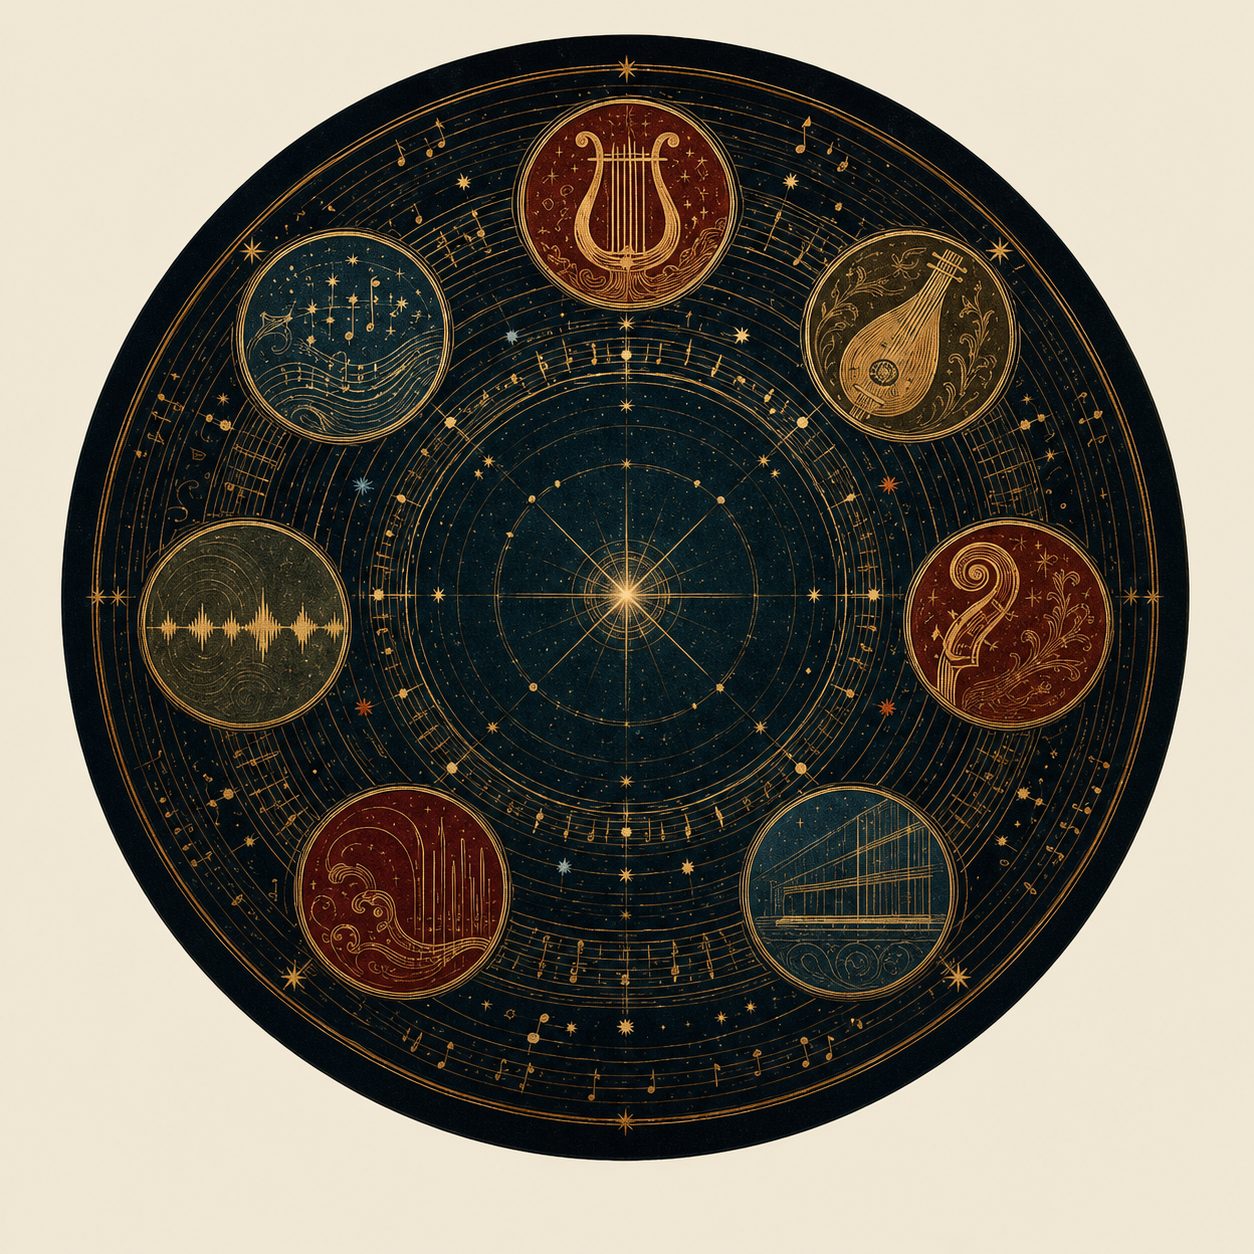
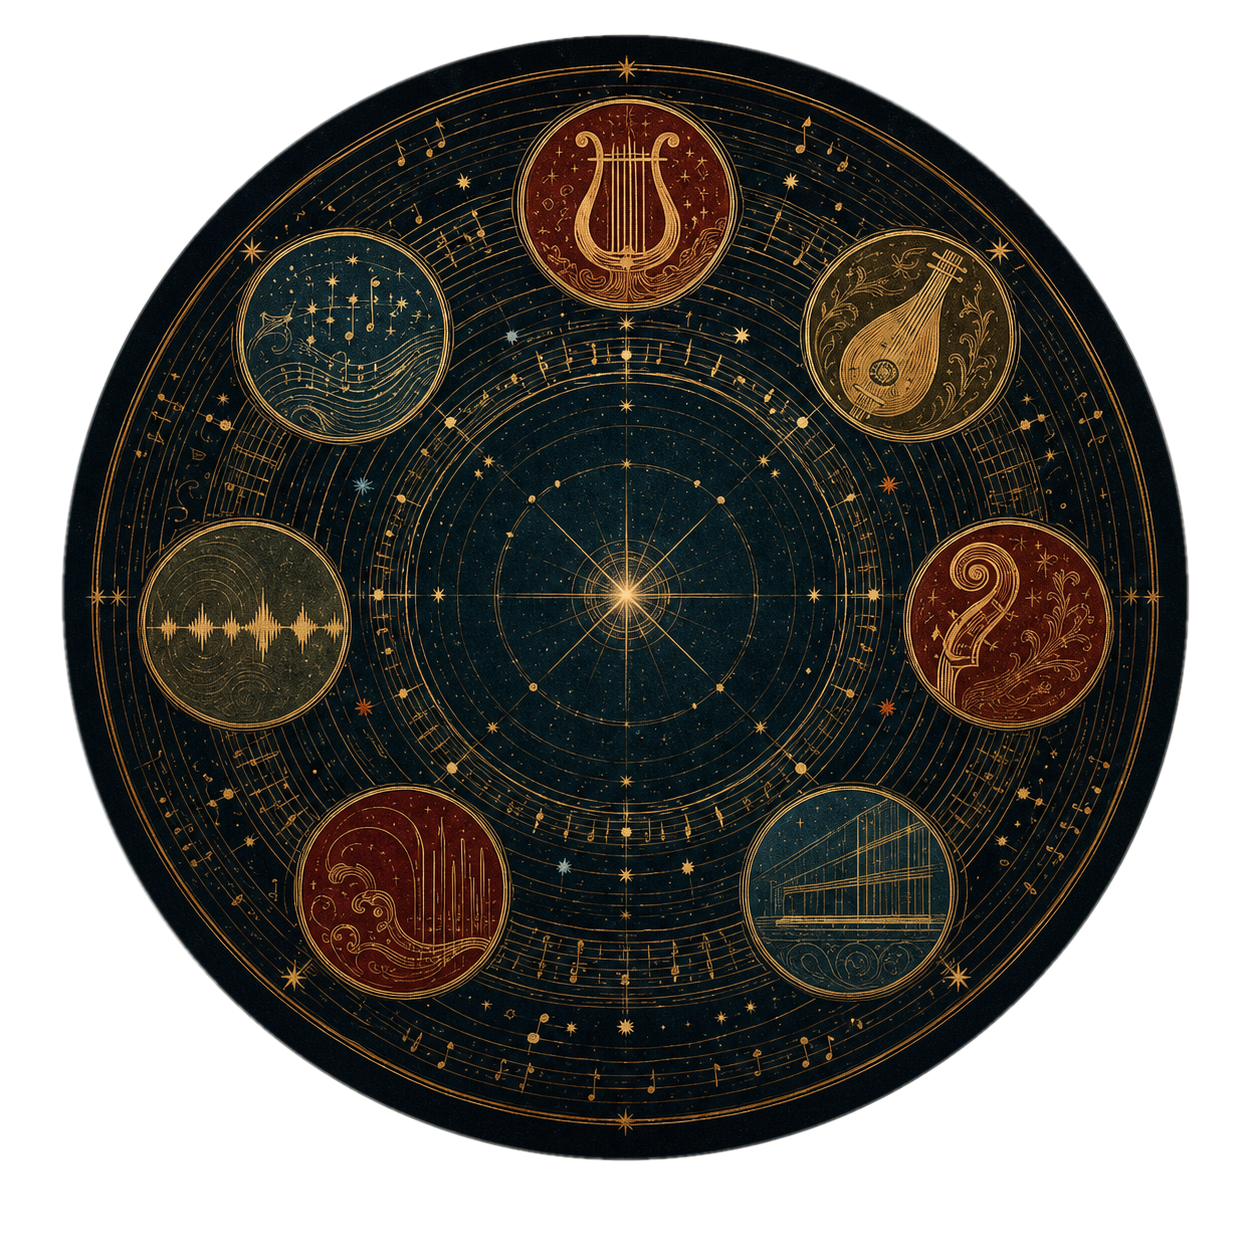
Make Europa opening disc disperse

diff --git a/modules/europa/index.html b/modules/europa/index.html
@@ -656,56 +656,50 @@ html[data-mirror="to-europa"]::view-transition-new(yearbook-page){transform-orig
 @media(max-width:640px){.mirror-switch{bottom:9px;min-height:48px}.mirror-caption{display:none}}
 @media(prefers-reduced-motion:reduce){.mirror-switch,#app{animation:none!important;transition:none!important}::view-transition-old(yearbook-page),::view-transition-new(yearbook-page){animation:none!important}}
 
-/* ---------- opening sequence: camera-aperture reveal ---------- */
+/* ---------- opening sequence: rotating disc dispersal ---------- */
 body.europa-opening-active{overflow:hidden}
 #europa-opening{position:fixed;inset:0;z-index:1800;display:grid;place-items:center;overflow:hidden;isolation:isolate;background:#080b0e;color:#f0e4c7;opacity:1;visibility:visible;transition:opacity .68s var(--ease-out),visibility 0s linear 0s}
-#europa-opening::before{content:"";position:absolute;inset:-18%;z-index:-2;background:radial-gradient(circle at 50% 45%,rgba(206,161,76,.15),transparent 24%),radial-gradient(circle at 50% 50%,rgba(52,80,91,.2),transparent 46%),linear-gradient(145deg,#070a0c 0%,#111a1e 52%,#060809 100%)}
-#europa-opening::after{content:"";position:absolute;inset:0;z-index:-1;opacity:.28;background:radial-gradient(circle at 50% 50%,transparent 0 25%,rgba(222,190,117,.13) 25.2% 25.35%,transparent 25.6% 42%,rgba(222,190,117,.08) 42.2% 42.35%,transparent 42.7%),linear-gradient(90deg,transparent 49.94%,rgba(235,211,155,.17) 50%,transparent 50.06%),linear-gradient(0deg,transparent 49.94%,rgba(235,211,155,.12) 50%,transparent 50.06%);mask-image:linear-gradient(180deg,transparent,black 16%,black 84%,transparent)}
+#europa-opening::before{content:"";position:absolute;inset:-18%;z-index:-1;background:radial-gradient(circle at 50% 44%,rgba(190,145,61,.12),transparent 27%),radial-gradient(circle at 50% 52%,rgba(46,78,87,.16),transparent 52%),linear-gradient(145deg,#06090b 0%,#11191d 54%,#050708 100%)}
+#europa-opening::after{display:none}
 #europa-opening.is-leaving{opacity:0;pointer-events:none;visibility:hidden}
 #europa-opening.is-done{display:none}
 .europa-opening-skip{position:absolute;right:clamp(18px,4vw,52px);bottom:clamp(18px,4vw,42px);z-index:10;border:1px solid rgba(233,214,166,.42);background:rgba(8,11,14,.52);color:#dfc995;padding:9px 14px;font:600 11px/1 var(--sans);letter-spacing:.18em;cursor:pointer;transition:background .2s,border-color .2s,color .2s}
 .europa-opening-skip:hover,.europa-opening-skip:focus-visible{background:rgba(201,162,39,.18);border-color:#dfc995;color:#fff5d7;outline:2px solid rgba(223,201,149,.38);outline-offset:3px}
 .europa-opening-stage{position:relative;width:min(92vw,820px);height:min(82vh,680px);display:grid;place-items:center;perspective:1400px}
-.europa-opening-lens{position:relative;width:min(67vw,430px);aspect-ratio:1;display:grid;place-items:center;transform-style:preserve-3d;filter:drop-shadow(0 28px 38px rgba(0,0,0,.5));animation:europa-lens-arrive 1.05s var(--ease-out) both}
-.europa-opening-lens::before{content:"";position:absolute;inset:-8%;border:1px solid rgba(230,202,139,.42);border-radius:50%;box-shadow:0 0 0 8px rgba(230,202,139,.04),0 0 40px rgba(190,143,55,.18);animation:europa-lens-ring-in 1.25s var(--ease-out) both}
-.europa-opening-lens::after{content:"";position:absolute;inset:-1%;border:1px solid rgba(105,147,153,.28);border-radius:50%;transform:rotate(22deg) scale(.94);pointer-events:none}
-.europa-aperture{position:relative;width:88%;aspect-ratio:1;border-radius:50%;background:radial-gradient(circle at 48% 44%,#1f2b2e 0%,#10171a 48%,#050708 100%);box-shadow:inset 0 0 0 1px rgba(238,211,153,.55),inset 0 0 0 7px rgba(0,0,0,.48),inset 0 0 42px rgba(0,0,0,.75);isolation:isolate;transform:rotate(-7deg);animation:europa-aperture-body 2.1s var(--ease-out) both}
-.europa-aperture-image{position:absolute;inset:7%;z-index:1;border-radius:50%;overflow:hidden;clip-path:circle(6% at 50% 50%);animation:europa-aperture-image-open 1.72s var(--ease-out) .04s both}
-.europa-aperture-image img{display:block;width:100%;height:100%;object-fit:cover;border-radius:50%;filter:saturate(.94) contrast(1.04);user-select:none;-webkit-user-drag:none}
-.europa-aperture-blades{position:absolute;inset:5%;z-index:3;pointer-events:none}
-.europa-aperture-blade{position:absolute;left:50%;top:50%;width:58%;height:25%;margin-top:-12.5%;transform-origin:0 50%;clip-path:polygon(0 50%,86% 0,100% 50%,86% 100%);background:linear-gradient(110deg,rgba(4,7,8,.98) 0%,rgba(17,25,27,.93) 56%,rgba(191,146,61,.47) 100%);filter:drop-shadow(0 2px 3px rgba(0,0,0,.6));opacity:.98;animation:europa-aperture-blade-open 1.72s var(--ease-out) both}
-.europa-aperture-core{position:absolute;left:50%;top:50%;z-index:4;width:23%;aspect-ratio:1;transform:translate(-50%,-50%) scale(1);border-radius:50%;background:#030506;border:1px solid rgba(238,211,153,.58);box-shadow:0 0 0 7px rgba(4,7,8,.82),0 0 28px rgba(0,0,0,.72);animation:europa-aperture-core-open 1.72s var(--ease-out) both}
-.europa-aperture-ring{position:absolute;inset:3%;z-index:5;border:1px solid rgba(235,210,156,.32);border-radius:50%;box-shadow:inset 0 0 20px rgba(0,0,0,.34);pointer-events:none}
-.europa-aperture-reflection{position:absolute;inset:8%;z-index:6;border-radius:50%;pointer-events:none;background:linear-gradient(126deg,rgba(255,255,255,.16),transparent 17% 64%,rgba(159,207,213,.07) 77%,transparent 87%);mix-blend-mode:screen;opacity:0;animation:europa-aperture-reflection-in 1.05s var(--ease-out) 1.18s both}
-.europa-opening-caption{position:absolute;left:50%;bottom:3%;transform:translateX(-50%);width:min(92vw,620px);text-align:center;opacity:0;animation:europa-opening-caption-in .72s var(--ease-out) 1.18s both}
+.europa-opening-disc{position:relative;width:min(72vw,470px);aspect-ratio:1;display:grid;place-items:center;transform-style:preserve-3d;filter:drop-shadow(0 28px 38px rgba(0,0,0,.5));will-change:transform;animation:europa-opening-disc-spin 3.2s var(--ease-out) both}
+.europa-opening-base{display:block;width:100%;height:100%;object-fit:contain;user-select:none;-webkit-user-drag:none;filter:saturate(.96) contrast(1.04);will-change:opacity;animation:europa-opening-disc-fade 3.2s linear both}
+.europa-opening-fragments{position:absolute;inset:0;pointer-events:none;overflow:visible}
+.europa-opening-fragment{position:absolute;inset:0;display:block;border-radius:50%;background:url("./europa-orbit-seal.png") center/100% 100% no-repeat;opacity:0;will-change:transform,opacity;-webkit-mask:conic-gradient(from var(--angle),#000 0 30deg,transparent 30deg 360deg);mask:conic-gradient(from var(--angle),#000 0 30deg,transparent 30deg 360deg);animation:europa-fragment-scatter 1.68s var(--ease-out) calc(1.22s + var(--delay)) both}
+.europa-opening-caption{position:absolute;left:50%;bottom:3%;transform:translateX(-50%);width:min(92vw,620px);text-align:center;opacity:0;animation:europa-opening-caption-in .72s var(--ease-out) 2.24s both}
 .europa-opening-caption .kicker{display:block;color:#d4b56f;font:600 10px/1.4 var(--sans);letter-spacing:.42em;margin-left:.42em}
 .europa-opening-caption h1{font-family:var(--serif);font-size:clamp(28px,5vw,54px);line-height:1.1;letter-spacing:.15em;margin:12px 0 7px;font-weight:600;text-shadow:0 3px 18px rgba(0,0,0,.48)}
 .europa-opening-caption p{margin:0;color:rgba(241,226,190,.68);font:11px/1.5 var(--sans);letter-spacing:.3em;margin-left:.3em}
-@keyframes europa-lens-arrive{from{opacity:0;transform:scale(.58) rotateY(-32deg) rotateZ(-12deg)}to{opacity:1;transform:none}}
-@keyframes europa-lens-ring-in{from{opacity:0;transform:scale(.72) rotate(-30deg)}to{opacity:1;transform:none}}
-@keyframes europa-aperture-body{0%{transform:rotate(-7deg) scale(.92)}100%{transform:rotate(0) scale(1)}}
-@keyframes europa-aperture-image-open{0%,12%{clip-path:circle(6% at 50% 50%)}38%{clip-path:circle(24% at 50% 50%)}72%{clip-path:circle(47% at 50% 50%)}100%{clip-path:circle(68% at 50% 50%)}}
-@keyframes europa-aperture-blade-open{0%,12%{transform:rotate(calc(var(--i) * 45deg)) translateX(-1px) rotate(-15deg);opacity:.98}56%{transform:rotate(calc(var(--i) * 45deg + 3deg)) translateX(25px) rotate(-11deg);opacity:.88}100%{transform:rotate(calc(var(--i) * 45deg + 7deg)) translateX(68px) rotate(-6deg);opacity:.24}}
-@keyframes europa-aperture-core-open{0%,12%{transform:translate(-50%,-50%) scale(1);opacity:1}62%{transform:translate(-50%,-50%) scale(.48);opacity:.76}100%{transform:translate(-50%,-50%) scale(.18);opacity:.24}}
-@keyframes europa-aperture-reflection-in{from{opacity:0;transform:rotate(-16deg) scale(.86)}to{opacity:.5;transform:none}}
+@keyframes europa-opening-disc-spin{0%{opacity:0;transform:scale(.78) rotate(-28deg)}12%{opacity:1;transform:scale(.94) rotate(0deg)}52%{opacity:1;transform:scale(1) rotate(190deg)}78%{opacity:1;transform:scale(1.015) rotate(315deg)}100%{opacity:1;transform:scale(1.02) rotate(360deg)}}
+@keyframes europa-opening-disc-fade{0%,12%,56%{opacity:1}78%{opacity:.48}100%{opacity:0}}
+@keyframes europa-fragment-scatter{0%,16%{opacity:0;transform:rotate(0deg) translateY(0) rotate(0deg) scale(1)}27%{opacity:.98;transform:rotate(0deg) translateY(0) rotate(0deg) scale(1)}100%{opacity:0;transform:rotate(calc(var(--angle) + var(--twist))) translateY(calc(-1 * var(--scatter))) rotate(var(--twist)) scale(.78)}}
 @keyframes europa-opening-caption-in{from{opacity:0;transform:translate(-50%,18px)}to{opacity:1;transform:translate(-50%,0)}}
-@media(max-width:640px){.europa-opening-stage{height:min(80vh,590px)}.europa-opening-lens{width:min(74vw,360px)}.europa-opening-caption{bottom:3%}.europa-opening-caption h1{letter-spacing:.1em}.europa-opening-caption p{letter-spacing:.17em}.europa-opening-skip{font-size:10px;padding:10px 12px}}
-@media(prefers-reduced-motion:reduce){#europa-opening{display:none!important}.europa-opening-lens,.europa-opening-lens::before,.europa-aperture,.europa-aperture-image,.europa-aperture-blade,.europa-aperture-core,.europa-aperture-reflection,.europa-opening-caption{animation:none!important}}
+@media(max-width:640px){.europa-opening-stage{height:min(80vh,590px)}.europa-opening-disc{width:min(78vw,360px)}.europa-opening-caption{bottom:3%}.europa-opening-caption h1{letter-spacing:.1em}.europa-opening-caption p{letter-spacing:.17em}.europa-opening-skip{font-size:10px;padding:10px 12px}}
+@media(prefers-reduced-motion:reduce){#europa-opening{display:none!important}.europa-opening-disc,.europa-opening-base,.europa-opening-fragment,.europa-opening-caption{animation:none!important}}
 </style>
 
 <body class="europa-opening-active">
 <div id="europa-opening" role="dialog" aria-modal="true" aria-labelledby="europa-opening-title">
   <div class="europa-opening-stage">
-    <div class="europa-opening-lens" aria-hidden="true">
-      <div class="europa-aperture">
-        <div class="europa-aperture-image"><img src="./europa-orbit-seal.png" width="1254" height="1254" decoding="async" alt="" draggable="false"></div>
-        <div class="europa-aperture-blades">
-          <i class="europa-aperture-blade" style="--i:0"></i><i class="europa-aperture-blade" style="--i:1"></i><i class="europa-aperture-blade" style="--i:2"></i><i class="europa-aperture-blade" style="--i:3"></i>
-          <i class="europa-aperture-blade" style="--i:4"></i><i class="europa-aperture-blade" style="--i:5"></i><i class="europa-aperture-blade" style="--i:6"></i><i class="europa-aperture-blade" style="--i:7"></i>
-        </div>
-        <div class="europa-aperture-core"></div>
-        <div class="europa-aperture-ring"></div>
-        <div class="europa-aperture-reflection"></div>
+    <div class="europa-opening-disc" aria-hidden="true">
+      <img class="europa-opening-base" src="./europa-orbit-seal.png" width="1254" height="1254" decoding="async" alt="" draggable="false">
+      <div class="europa-opening-fragments">
+        <i class="europa-opening-fragment" style="--angle:0deg;--scatter:54px;--twist:-13deg;--delay:0s"></i>
+        <i class="europa-opening-fragment" style="--angle:30deg;--scatter:72px;--twist:9deg;--delay:.03s"></i>
+        <i class="europa-opening-fragment" style="--angle:60deg;--scatter:48px;--twist:-8deg;--delay:.07s"></i>
+        <i class="europa-opening-fragment" style="--angle:90deg;--scatter:84px;--twist:14deg;--delay:.02s"></i>
+        <i class="europa-opening-fragment" style="--angle:120deg;--scatter:62px;--twist:-11deg;--delay:.09s"></i>
+        <i class="europa-opening-fragment" style="--angle:150deg;--scatter:78px;--twist:7deg;--delay:.04s"></i>
+        <i class="europa-opening-fragment" style="--angle:180deg;--scatter:57px;--twist:-15deg;--delay:.11s"></i>
+        <i class="europa-opening-fragment" style="--angle:210deg;--scatter:88px;--twist:10deg;--delay:.05s"></i>
+        <i class="europa-opening-fragment" style="--angle:240deg;--scatter:52px;--twist:-7deg;--delay:.08s"></i>
+        <i class="europa-opening-fragment" style="--angle:270deg;--scatter:76px;--twist:12deg;--delay:.01s"></i>
+        <i class="europa-opening-fragment" style="--angle:300deg;--scatter:64px;--twist:-10deg;--delay:.06s"></i>
+        <i class="europa-opening-fragment" style="--angle:330deg;--scatter:82px;--twist:8deg;--delay:.1s"></i>
       </div>
     </div>
     <div class="europa-opening-caption">
@@ -2367,7 +2361,7 @@ window.addEventListener("popstate",()=>{if(!location.hash){$("#dlg").open&&$("#d
 renderEpnav();renderAlm();
 queueChronograph();
 if(location.hash){readHash()}
-else{let seen;try{seen=localStorage.getItem("annales_seen")}catch(e){}if(!seen)setTimeout(showIntro,3500)}
+else{let seen;try{seen=localStorage.getItem("annales_seen")}catch(e){}if(!seen)setTimeout(showIntro,4600)}
 </script>
 <script>
 (function(){
@@ -2411,8 +2405,8 @@ else{let seen;try{seen=localStorage.getItem("annales_seen")}catch(e){}if(!seen)s
   if(reduced||saveData||(!force&&seen)){finish();return;}
   try{sessionStorage.setItem(key,"1")}catch(e){}
   const mobile=window.matchMedia&&window.matchMedia("(max-width:640px)").matches;
-  window.setTimeout(function(){if(!finished)opening.classList.add("is-leaving")},mobile?1420:1740);
-  window.setTimeout(finish,mobile?2180:2580);
+  window.setTimeout(function(){if(!finished)opening.classList.add("is-leaving")},mobile?2920:3260);
+  window.setTimeout(finish,mobile?3600:3940);
   skip&&skip.focus({preventScroll:true});
 })();
 </script>
